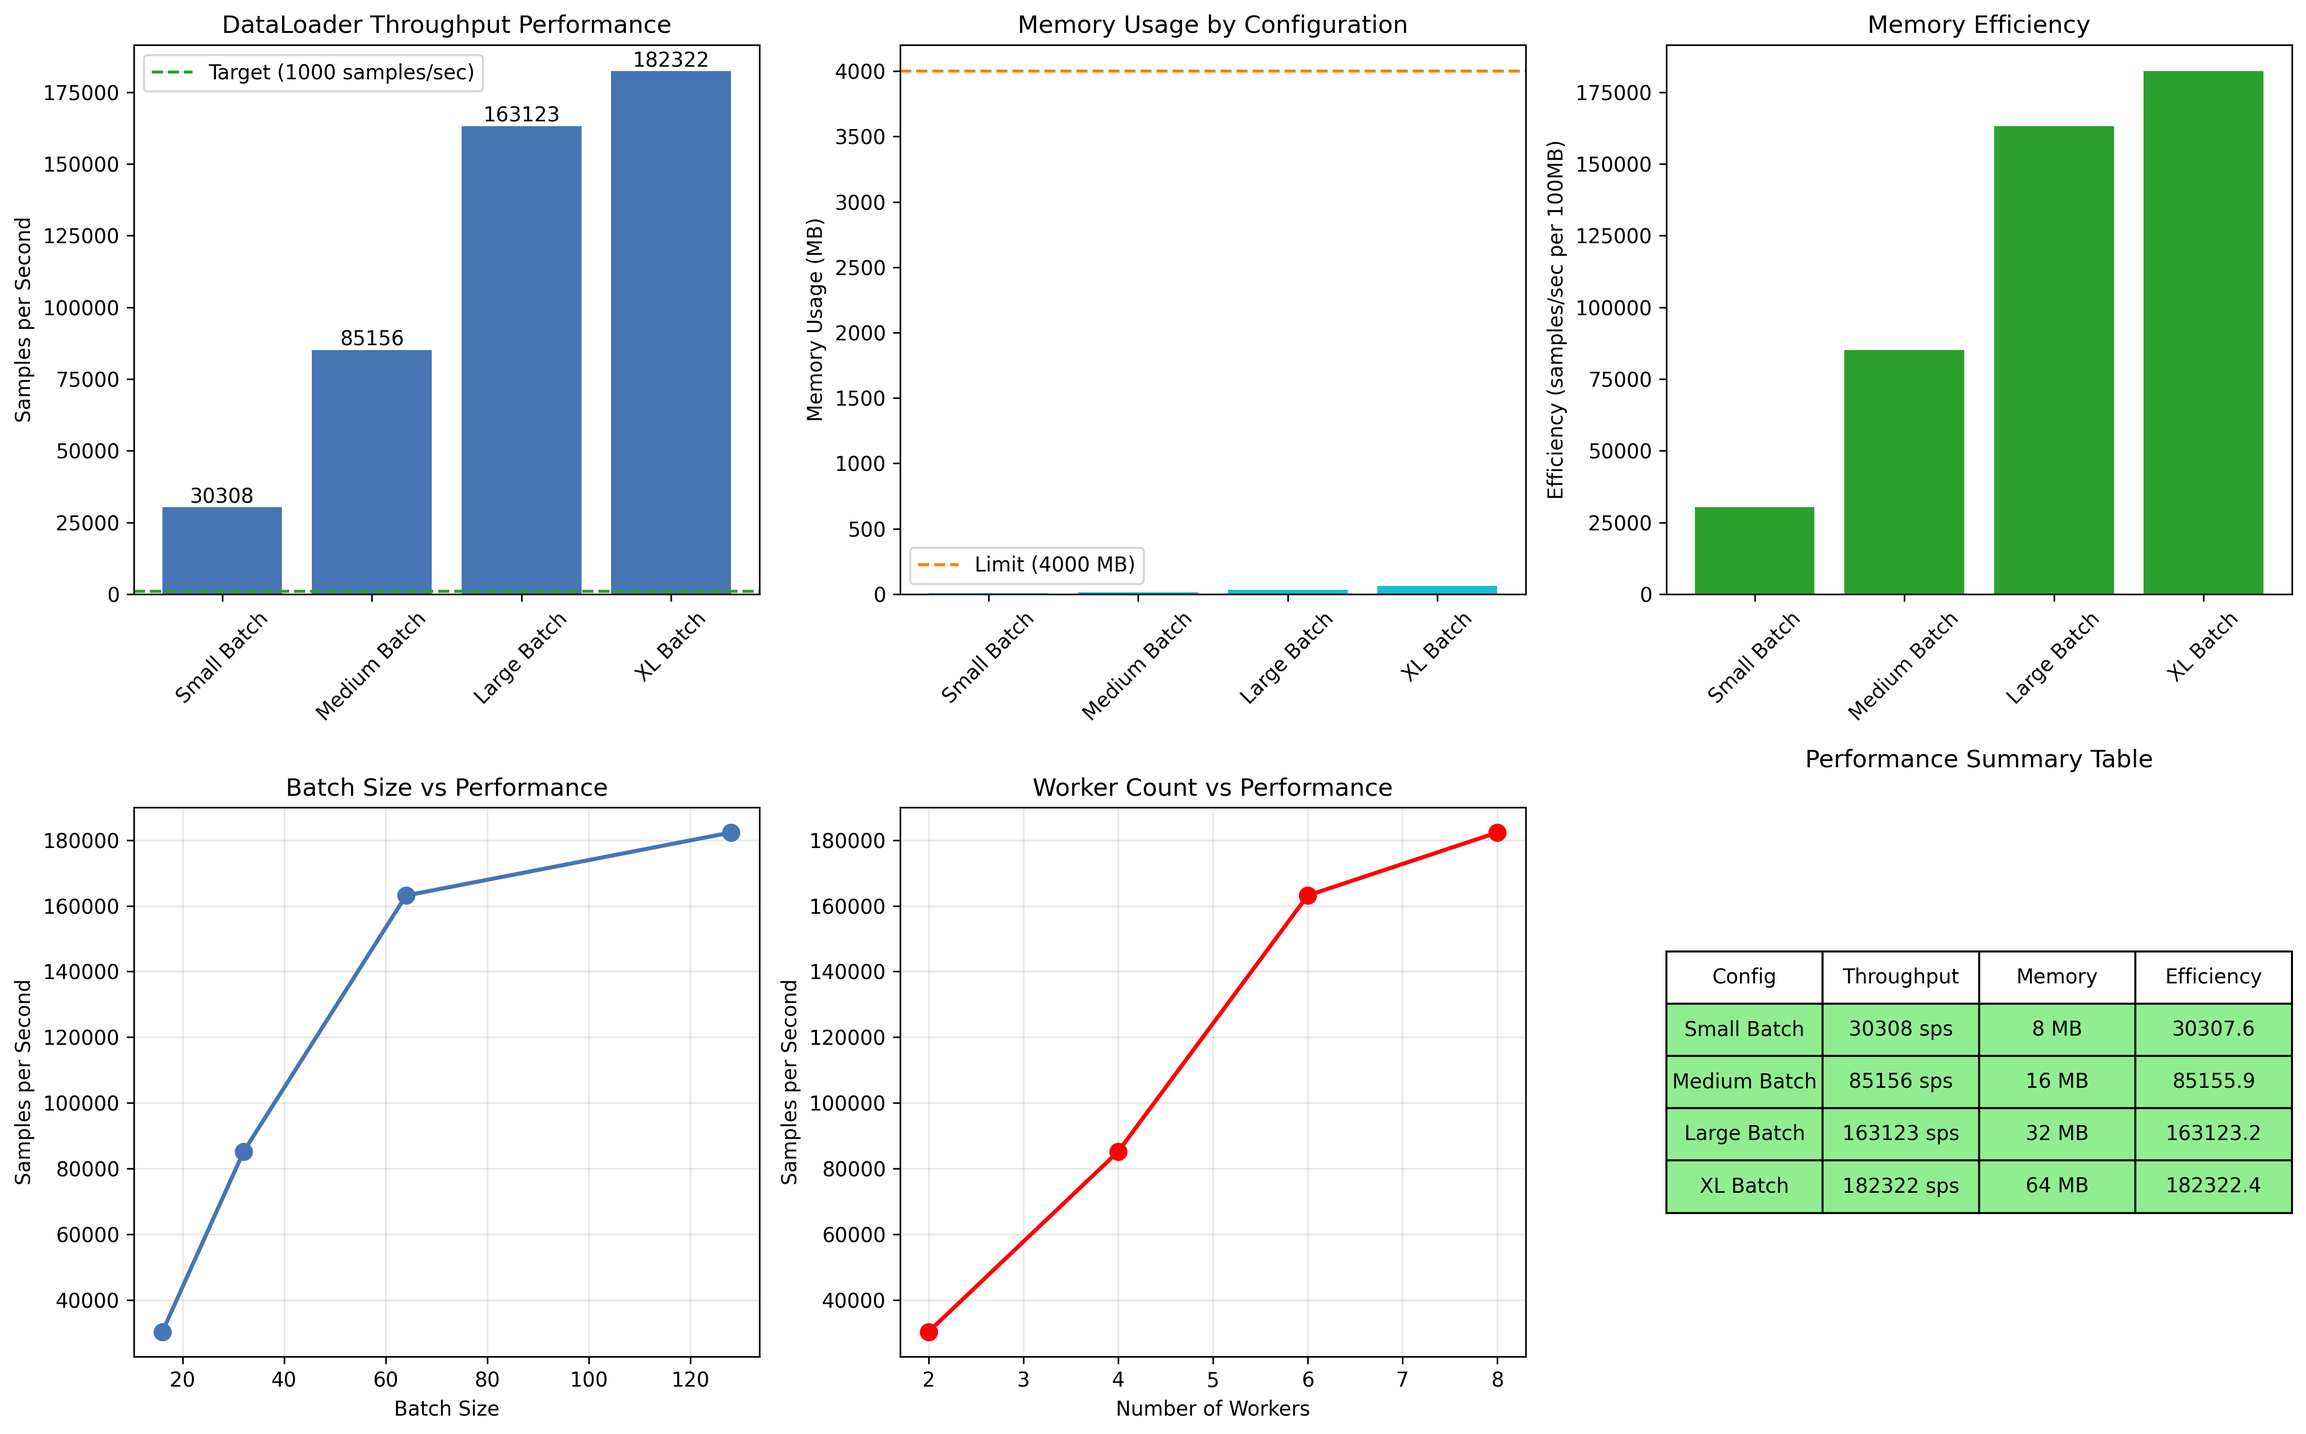
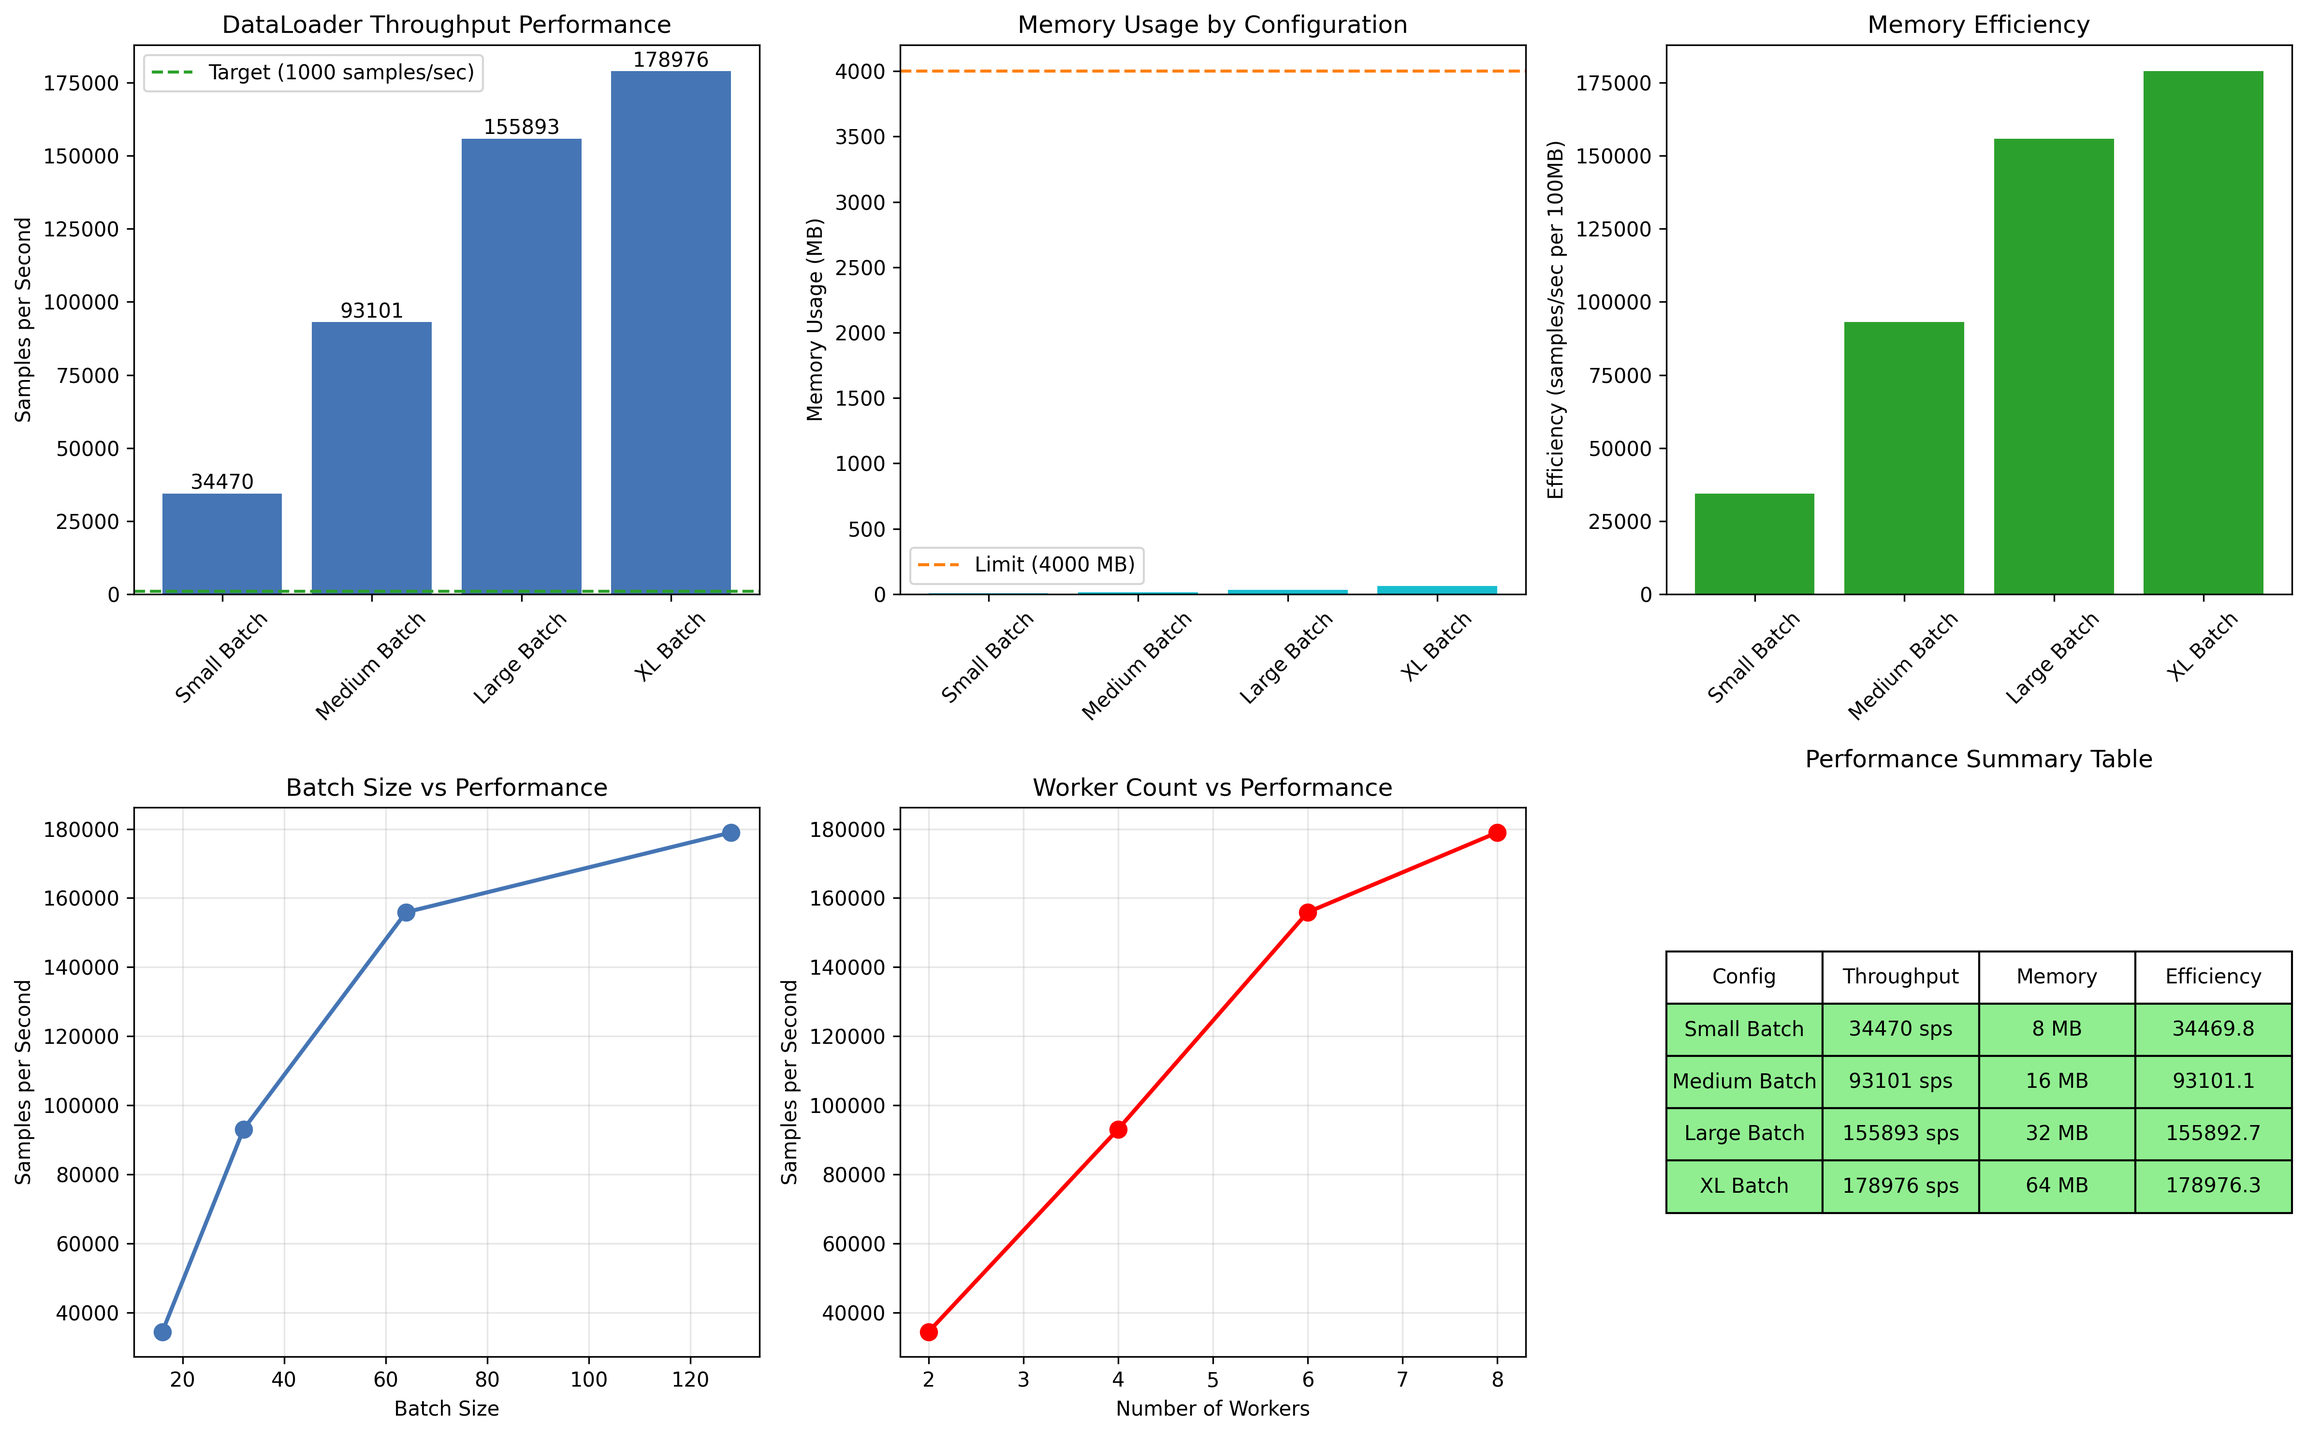
test(examples): update examples

diff --git a/examples/comprehensive_demo_output/comprehensive_demo_report.html b/examples/comprehensive_demo_output/comprehensive_demo_report.html
@@ -297,6 +297,125 @@ features = processor.extract_features(
 
                     </tbody>
                 </table>
+
+                <h3>🎯 Global Classification Bin Edges</h3>
+                <p>These are the actual quantile boundaries used for uniform classification across all symbols and files.</p>
+                
+                <table style="margin: 20px 0;">
+                    <thead>
+                        <tr>
+                            <th>Bin #</th>
+                            <th>Lower Edge (μ-pips)</th>
+                            <th>Upper Edge (μ-pips)</th>
+                            <th>Range (μ-pips)</th>
+                        </tr>
+                    </thead>
+                    <tbody>
+
+                        <tr>
+                            <td><strong>Bin 0</strong></td>
+                            <td>-0.006538</td>
+                            <td>-0.000721</td>
+                            <td>0.005816</td>
+                        </tr>
+
+                        <tr>
+                            <td><strong>Bin 1</strong></td>
+                            <td>-0.000721</td>
+                            <td>-0.000504</td>
+                            <td>0.000218</td>
+                        </tr>
+
+                        <tr>
+                            <td><strong>Bin 2</strong></td>
+                            <td>-0.000504</td>
+                            <td>-0.000355</td>
+                            <td>0.000148</td>
+                        </tr>
+
+                        <tr>
+                            <td><strong>Bin 3</strong></td>
+                            <td>-0.000355</td>
+                            <td>-0.000236</td>
+                            <td>0.000119</td>
+                        </tr>
+
+                        <tr>
+                            <td><strong>Bin 4</strong></td>
+                            <td>-0.000236</td>
+                            <td>-0.000135</td>
+                            <td>0.000101</td>
+                        </tr>
+
+                        <tr>
+                            <td><strong>Bin 5</strong></td>
+                            <td>-0.000135</td>
+                            <td>-0.000039</td>
+                            <td>0.000096</td>
+                        </tr>
+
+                        <tr>
+                            <td><strong>Bin 6</strong></td>
+                            <td>-0.000039</td>
+                            <td>0.000057</td>
+                            <td>0.000096</td>
+                        </tr>
+
+                        <tr>
+                            <td><strong>Bin 7</strong></td>
+                            <td>0.000057</td>
+                            <td>0.000158</td>
+                            <td>0.000101</td>
+                        </tr>
+
+                        <tr>
+                            <td><strong>Bin 8</strong></td>
+                            <td>0.000158</td>
+                            <td>0.000261</td>
+                            <td>0.000103</td>
+                        </tr>
+
+                        <tr>
+                            <td><strong>Bin 9</strong></td>
+                            <td>0.000261</td>
+                            <td>0.000371</td>
+                            <td>0.000110</td>
+                        </tr>
+
+                        <tr>
+                            <td><strong>Bin 10</strong></td>
+                            <td>0.000371</td>
+                            <td>0.000508</td>
+                            <td>0.000137</td>
+                        </tr>
+
+                        <tr>
+                            <td><strong>Bin 11</strong></td>
+                            <td>0.000508</td>
+                            <td>0.000711</td>
+                            <td>0.000203</td>
+                        </tr>
+
+                        <tr>
+                            <td><strong>Bin 12</strong></td>
+                            <td>0.000711</td>
+                            <td>0.007247</td>
+                            <td>0.006536</td>
+                        </tr>
+
+                    </tbody>
+                </table>
+                
+                <div class="feature-card" style="margin: 20px 0;">
+                    <h4>📊 Bin Edge Statistics</h4>
+
+                    <p><strong>Total Boundaries:</strong> 14 (for 13 classification bins)</p>
+                    <p><strong>Range:</strong> -0.006538 to 0.007247 micro-pips</p>
+                    <p><strong>Files Analyzed:</strong> 86 DBN files</p>
+                    <p><strong>Sample Size:</strong> 248,925 price movements</p>
+
+                </div>
+
                 
                 <div class="highlight">
                     <h4>🎯 Why Force Uniform Matters</h4>
@@ -330,36 +449,36 @@ features = processor.extract_features(
                             <td><strong>Small Batch</strong></td>
                             <td>16</td>
                             <td>2</td>
-                            <td class="performance-good">30308 sps</td>
+                            <td class="performance-good">34470 sps</td>
                             <td class="performance-good">8 MB</td>
-                            <td>30307.6</td>
+                            <td>34469.8</td>
                         </tr>
 
                         <tr>
                             <td><strong>Medium Batch</strong></td>
                             <td>32</td>
                             <td>4</td>
-                            <td class="performance-good">85156 sps</td>
+                            <td class="performance-good">93101 sps</td>
                             <td class="performance-good">16 MB</td>
-                            <td>85155.9</td>
+                            <td>93101.1</td>
                         </tr>
 
                         <tr>
                             <td><strong>Large Batch</strong></td>
                             <td>64</td>
                             <td>6</td>
-                            <td class="performance-good">163123 sps</td>
+                            <td class="performance-good">155893 sps</td>
                             <td class="performance-good">32 MB</td>
-                            <td>163123.2</td>
+                            <td>155892.7</td>
                         </tr>
 
                         <tr>
                             <td><strong>XL Batch</strong></td>
                             <td>128</td>
                             <td>8</td>
-                            <td class="performance-good">182322 sps</td>
+                            <td class="performance-good">178976 sps</td>
                             <td class="performance-good">64 MB</td>
-                            <td>182322.4</td>
+                            <td>178976.3</td>
                         </tr>
 
                     </tbody>

diff --git a/examples/comprehensive_demo.py b/examples/comprehensive_demo.py
@@ -298,6 +298,7 @@ Range: [{global_thresholds.price_movement_stats["min"]:.0f}, {global_thresholds.
                     'files_analyzed': global_thresholds.files_analyzed,
                     'sample_size': global_thresholds.sample_size,
                     'nbins': global_thresholds.nbins,
+                    'quantile_boundaries': global_thresholds.quantile_boundaries.tolist(),
                     'price_movement_stats': global_thresholds.price_movement_stats,
                     'calculation_time_seconds': threshold_time
                 },
@@ -1803,6 +1804,58 @@ features = processor.extract_features(
             html += """
                     </tbody>
                 </table>
+"""
+            
+            # Add global bin edges table if available
+            if 'dbn_processing' in self.results and 'global_thresholds' in self.results['dbn_processing']:
+                gt_data = self.results['dbn_processing']['global_thresholds']
+                if 'quantile_boundaries' in gt_data:
+                    html += """
+                <h3>🎯 Global Classification Bin Edges</h3>
+                <p>These are the actual quantile boundaries used for uniform classification across all symbols and files.</p>
+                
+                <table style="margin: 20px 0;">
+                    <thead>
+                        <tr>
+                            <th>Bin #</th>
+                            <th>Lower Edge (μ-pips)</th>
+                            <th>Upper Edge (μ-pips)</th>
+                            <th>Range (μ-pips)</th>
+                        </tr>
+                    </thead>
+                    <tbody>
+"""
+                    boundaries = gt_data['quantile_boundaries']
+                    for i in range(len(boundaries) - 1):
+                        lower = boundaries[i]
+                        upper = boundaries[i + 1]
+                        range_width = upper - lower
+                        html += f"""
+                        <tr>
+                            <td><strong>Bin {i}</strong></td>
+                            <td>{lower:.6f}</td>
+                            <td>{upper:.6f}</td>
+                            <td>{range_width:.6f}</td>
+                        </tr>
+"""
+                    html += """
+                    </tbody>
+                </table>
+                
+                <div class="feature-card" style="margin: 20px 0;">
+                    <h4>📊 Bin Edge Statistics</h4>
+"""
+                    html += f"""
+                    <p><strong>Total Boundaries:</strong> {len(boundaries)} (for {gt_data['nbins']} classification bins)</p>
+                    <p><strong>Range:</strong> {min(boundaries):.6f} to {max(boundaries):.6f} micro-pips</p>
+                    <p><strong>Files Analyzed:</strong> {gt_data['files_analyzed']} DBN files</p>
+                    <p><strong>Sample Size:</strong> {gt_data['sample_size']:,} price movements</p>
+"""
+                    html += """
+                </div>
+"""
+            
+            html += """
                 
                 <div class="highlight">
                     <h4>🎯 Why Force Uniform Matters</h4>
@@ -2106,6 +2159,33 @@ Comparison of classification distributions with and without force_uniform to dem
 - **Total Samples**: {data['total_samples']:,}
 - **Std Deviation**: {data['uniformity_deviation']:.2f}%
 - **Quality**: {quality}
+
+"""
+            
+            # Add global bin edges table if available
+            if 'dbn_processing' in self.results and 'global_thresholds' in self.results['dbn_processing']:
+                gt_data = self.results['dbn_processing']['global_thresholds']
+                if 'quantile_boundaries' in gt_data:
+                    markdown += """### 🎯 Global Classification Bin Edges
+
+These are the actual quantile boundaries used for uniform classification across all symbols and files:
+
+| Bin # | Lower Edge (μ-pips) | Upper Edge (μ-pips) | Range (μ-pips) |
+|-------|-------------------|-------------------|----------------|
+"""
+                    boundaries = gt_data['quantile_boundaries']
+                    for i in range(len(boundaries) - 1):
+                        lower = boundaries[i]
+                        upper = boundaries[i + 1]
+                        range_width = upper - lower
+                        markdown += f"| Bin {i} | {lower:.6f} | {upper:.6f} | {range_width:.6f} |\n"
+                    
+                    markdown += f"""
+**Bin Edge Statistics:**
+- **Total Boundaries:** {len(boundaries)} (for {gt_data['nbins']} classification bins)  
+- **Range:** {min(boundaries):.6f} to {max(boundaries):.6f} micro-pips
+- **Files Analyzed:** {gt_data['files_analyzed']} DBN files
+- **Sample Size:** {gt_data['sample_size']:,} price movements
 
 """
             

diff --git a/examples/comprehensive_demo_output/comprehensive_demo_report.md b/examples/comprehensive_demo_output/comprehensive_demo_report.md
@@ -78,6 +78,32 @@ Comparison of classification distributions with and without force_uniform to dem
 - **Std Deviation**: 2.11%
 - **Quality**: GOOD
 
+### 🎯 Global Classification Bin Edges
+
+These are the actual quantile boundaries used for uniform classification across all symbols and files:
+
+| Bin # | Lower Edge (μ-pips) | Upper Edge (μ-pips) | Range (μ-pips) |
+|-------|-------------------|-------------------|----------------|
+| Bin 0 | -0.006538 | -0.000721 | 0.005816 |
+| Bin 1 | -0.000721 | -0.000504 | 0.000218 |
+| Bin 2 | -0.000504 | -0.000355 | 0.000148 |
+| Bin 3 | -0.000355 | -0.000236 | 0.000119 |
+| Bin 4 | -0.000236 | -0.000135 | 0.000101 |
+| Bin 5 | -0.000135 | -0.000039 | 0.000096 |
+| Bin 6 | -0.000039 | 0.000057 | 0.000096 |
+| Bin 7 | 0.000057 | 0.000158 | 0.000101 |
+| Bin 8 | 0.000158 | 0.000261 | 0.000103 |
+| Bin 9 | 0.000261 | 0.000371 | 0.000110 |
+| Bin 10 | 0.000371 | 0.000508 | 0.000137 |
+| Bin 11 | 0.000508 | 0.000711 | 0.000203 |
+| Bin 12 | 0.000711 | 0.007247 | 0.006536 |
+
+**Bin Edge Statistics:**
+- **Total Boundaries:** 14 (for 13 classification bins)  
+- **Range:** -0.006538 to 0.007247 micro-pips
+- **Files Analyzed:** 86 DBN files
+- **Sample Size:** 248,925 price movements
+
 ### Why Force Uniform Matters
 
 **Problem**: Natural price movement distributions are heavily skewed, leading to class imbalance that hurts ML model performance.
@@ -97,10 +123,10 @@ Comprehensive benchmarking of DataLoader configurations to identify optimal sett
 
 | Configuration | Batch Size | Workers | Throughput (sps) | Memory (MB) | Efficiency |
 |---------------|------------|---------|------------------|-------------|------------|
-| Small Batch | 16 | 2 | 30308 | 8 | 30307.6 |
-| Medium Batch | 32 | 4 | 85156 | 16 | 85155.9 |
-| Large Batch | 64 | 6 | 163123 | 32 | 163123.2 |
-| XL Batch | 128 | 8 | 182322 | 64 | 182322.4 |
+| Small Batch | 16 | 2 | 34470 | 8 | 34469.8 |
+| Medium Batch | 32 | 4 | 93101 | 16 | 93101.1 |
+| Large Batch | 64 | 6 | 155893 | 32 | 155892.7 |
+| XL Batch | 128 | 8 | 178976 | 64 | 178976.3 |
 
 ### Performance Targets
 - **Throughput**: >1000 samples/second for real-time training
@@ -215,4 +241,4 @@ dataloader = create_parquet_dataloader(
 
 ---
 
-*Report generated on 2025-08-09 14:54:30*
+*Report generated on 2025-08-09 15:09:40*
